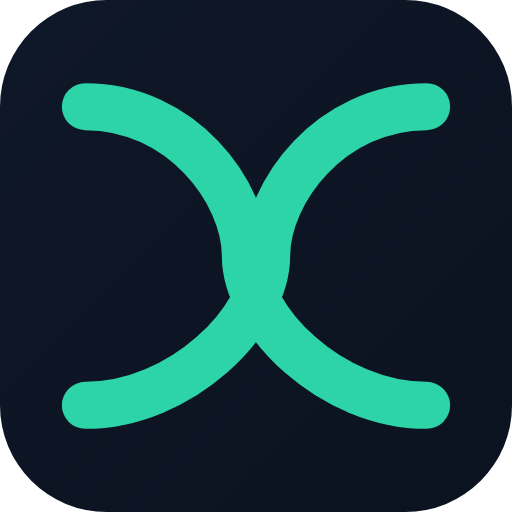
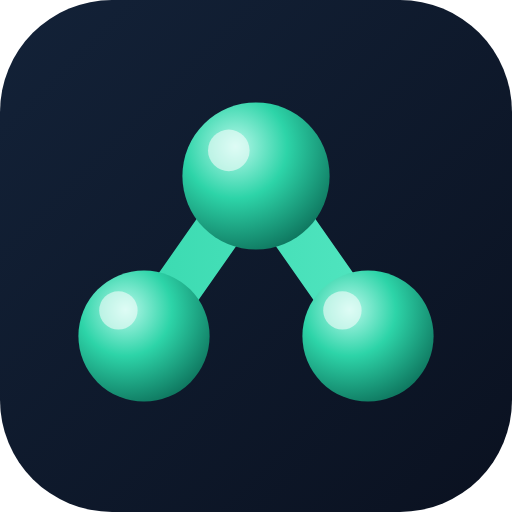
feat(brand): rework the mark into a legible three-residue molecule
The two-arc glyph read as a generic X and looked thin as an app icon.
Replace it with a three-node peptide molecule echoing the hero molecule's
visual language — glossy gradient nodes + bonds for the app icons, a flat
currentColor version for the header/footer chip. Verified legible from
16px (browser tab) to 512px (home screen).

- public/favicon.svg: 3-node molecule, token palette, specular highlights
- src/components/BrandMark.tsx: matching flat glyph geometry
- regenerated all raster icons via scripts/generate-icons.mjs

Claude-Session: https://claude.ai/code/session_01NPBdMDRuL4oQ5arYBtapVT

diff --git a/src/components/BrandMark.tsx b/src/components/BrandMark.tsx
@@ -1,11 +1,11 @@
 import Link from 'next/link'
 
 // ── Canonical brand mark ───────────────────────────────────────────────────
-// ONE glyph for the whole brand. The two interlocking arcs read as a peptide
-// double-strand; this is the same geometry baked into /public/favicon.svg and
-// the PWA icons, so header, tab, home-screen, and share surfaces all show the
-// same mark. If the glyph path changes here, regenerate the raster icons:
-//   node scripts/generate-icons.mjs
+// ONE glyph for the whole brand: a three-residue peptide molecule, echoing the
+// hero molecule. This is the same geometry baked into /public/favicon.svg and
+// the PWA icons, so header, tab, home-screen, and footer all show the same
+// mark. If the glyph changes here, mirror it in favicon.svg and regenerate the
+// raster icons: node scripts/generate-icons.mjs
 //
 // The glyph is palette-agnostic (uses currentColor) so callers set the color
 // via text-*; the default lockup is dark-glyph-on-teal-chip, matching the
@@ -13,17 +13,18 @@ import Link from 'next/link'
 
 export function BrandGlyph({ className }: { className?: string }) {
   return (
-    <svg
-      viewBox="0 0 24 24"
-      fill="none"
-      stroke="currentColor"
-      strokeWidth="2.5"
-      strokeLinecap="round"
-      className={className}
-      aria-hidden
-    >
-      <path d="M4 5c4.5 0 7.5 4 7.5 7S15.5 19 20 19" />
-      <path d="M20 5c-4.5 0-7.5 4-7.5 7S8.5 19 4 19" />
+    <svg viewBox="0 0 32 32" fill="currentColor" className={className} aria-hidden>
+      <polyline
+        points="9,21 16,11 23,21"
+        fill="none"
+        stroke="currentColor"
+        strokeWidth="3"
+        strokeLinecap="round"
+        strokeLinejoin="round"
+      />
+      <circle cx="9" cy="21" r="4.1" />
+      <circle cx="16" cy="11" r="4.6" />
+      <circle cx="23" cy="21" r="4.1" />
     </svg>
   )
 }
